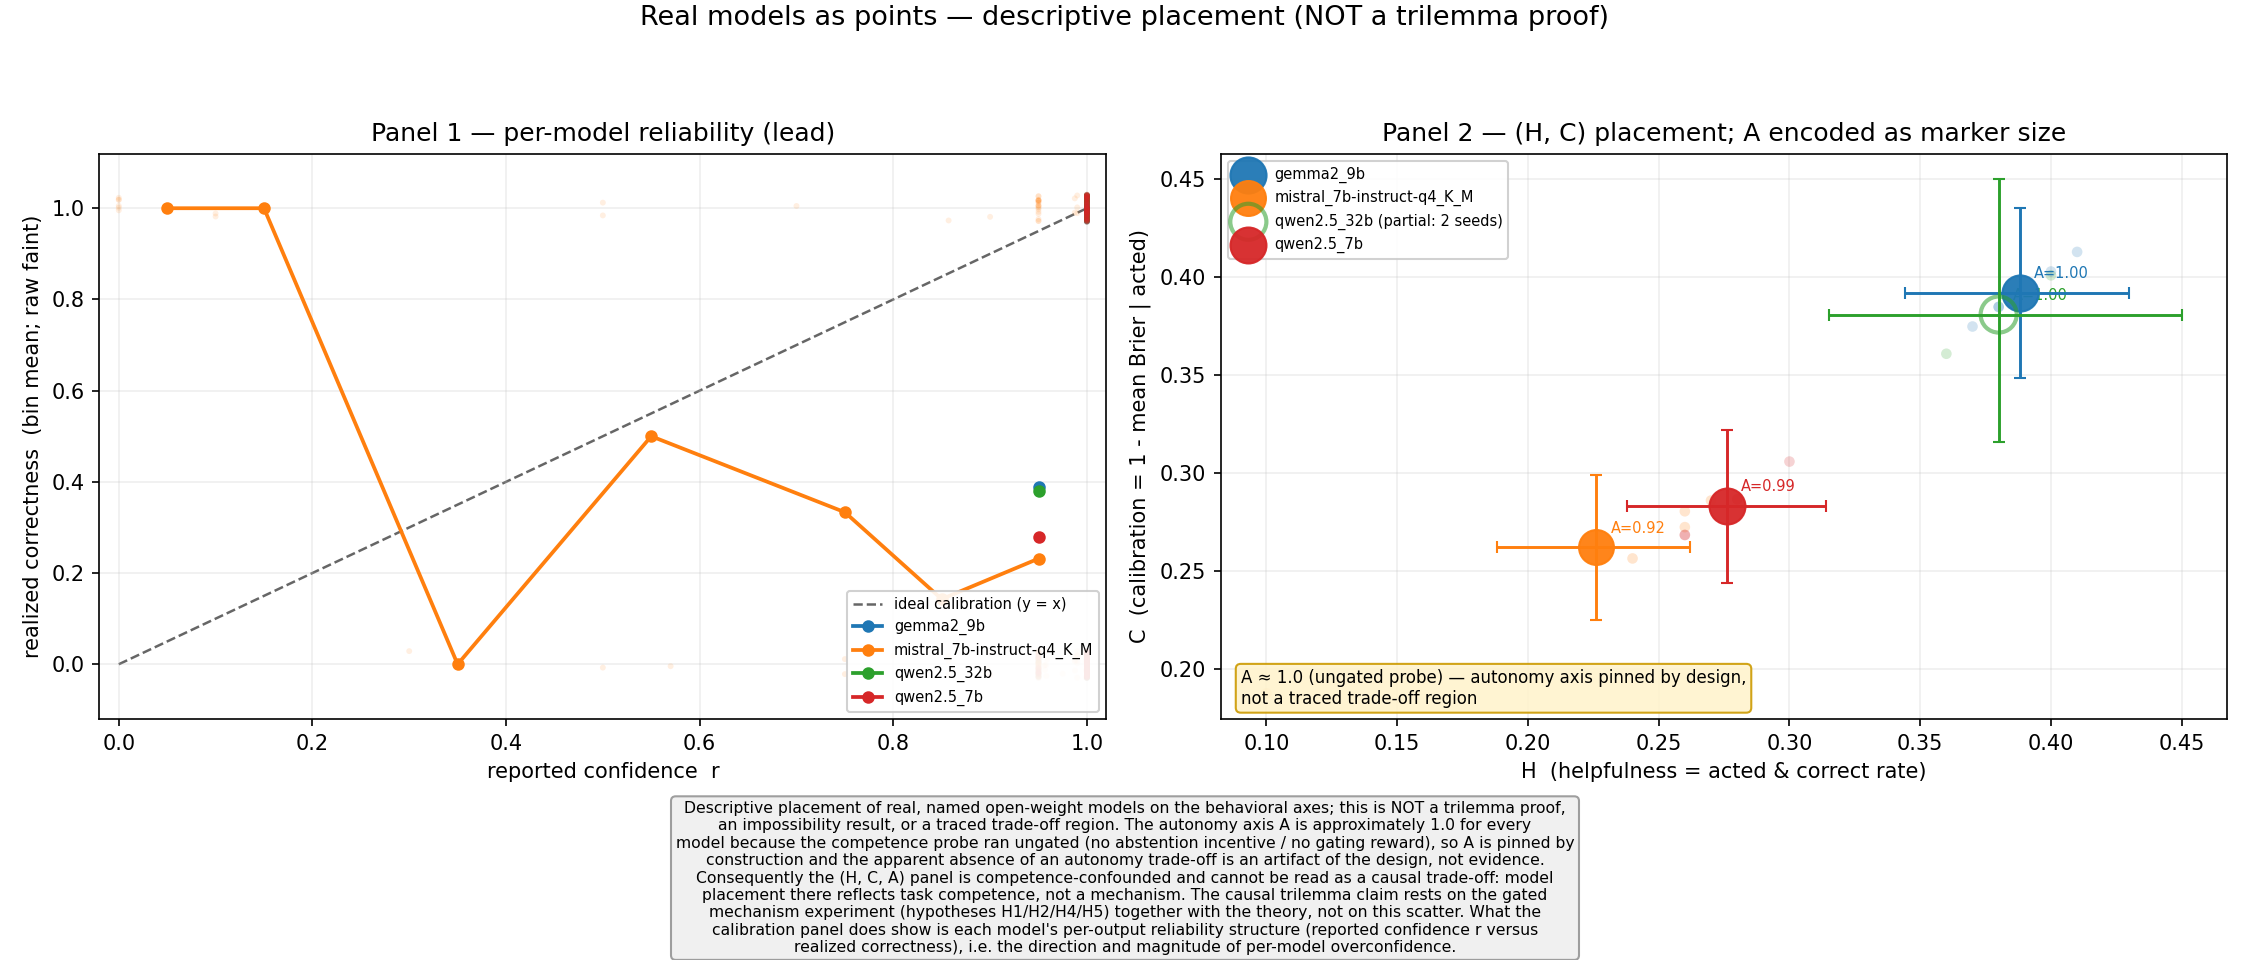
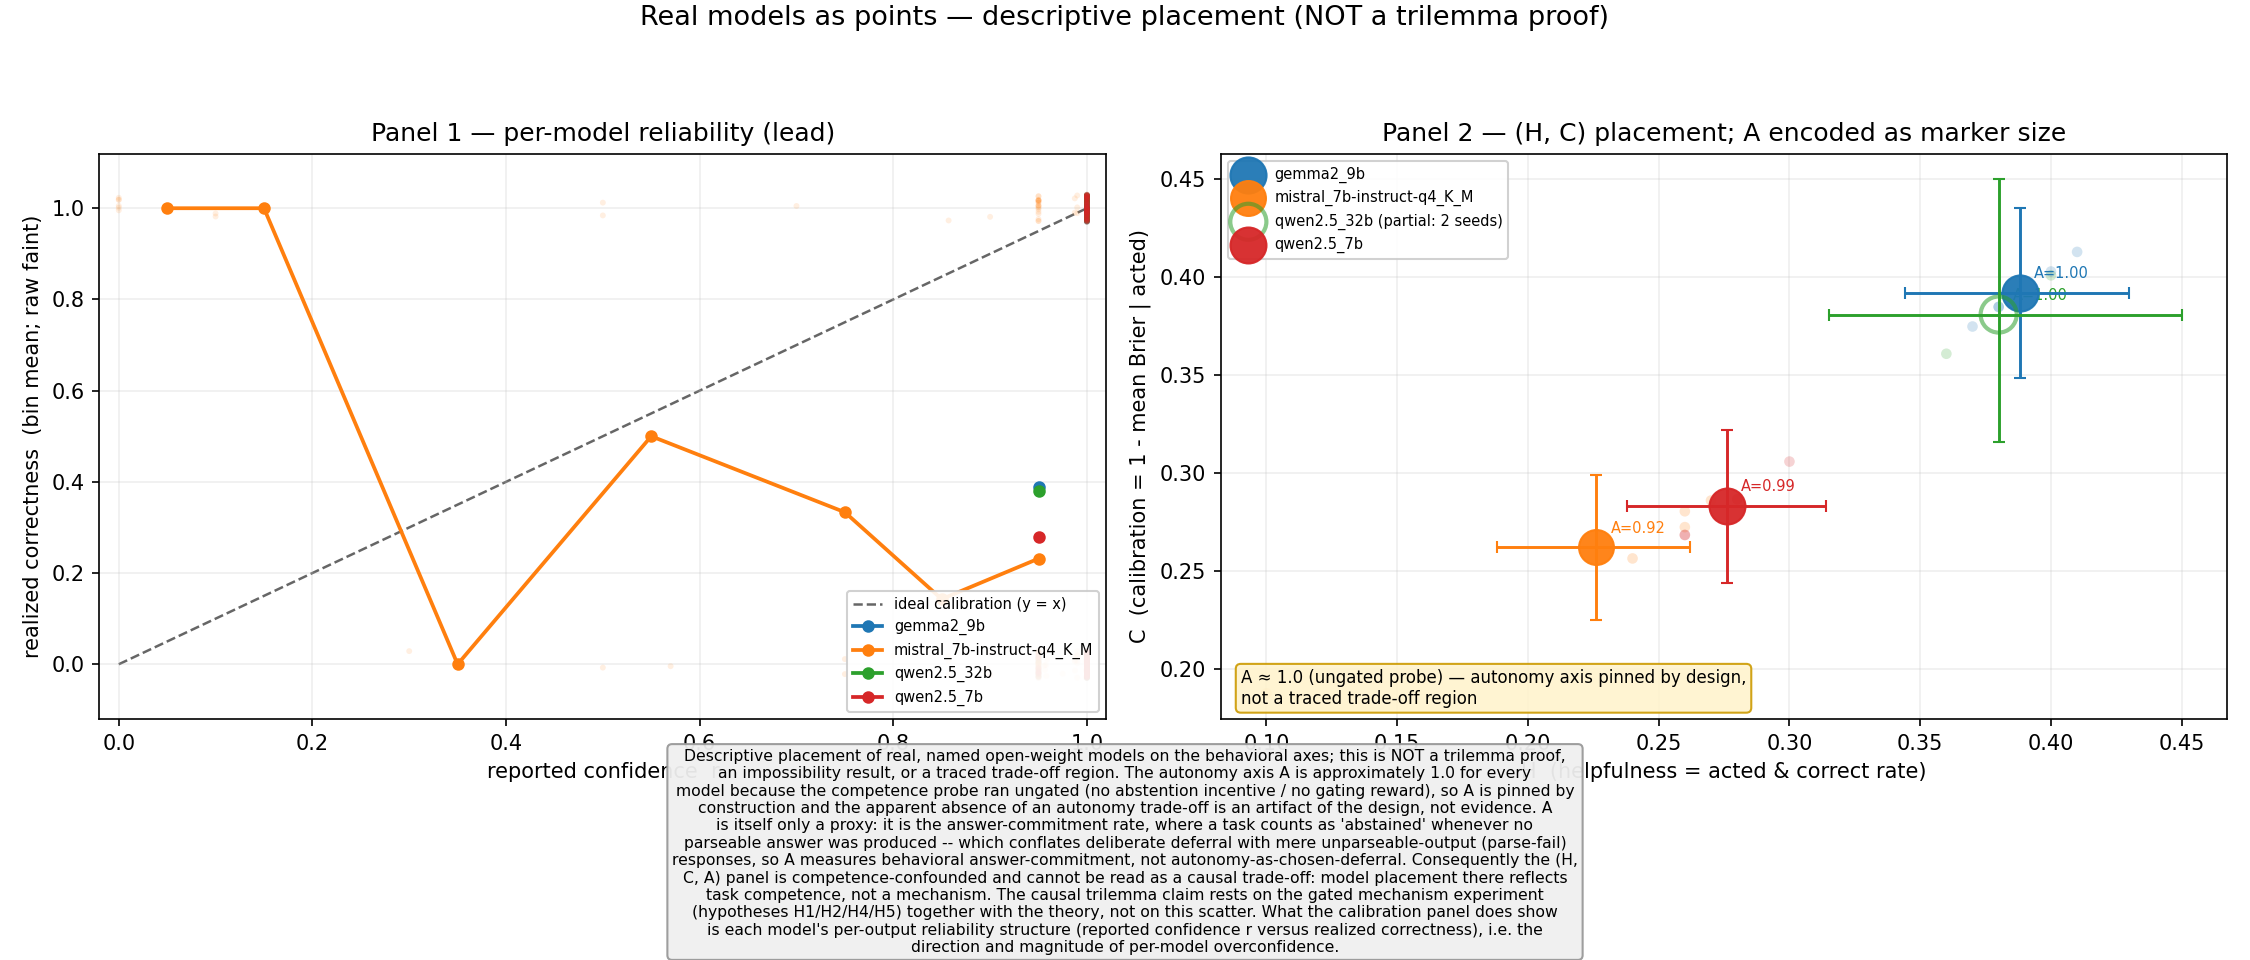
fix(analysis): disclose A construct-validity caveat in HONEST_CAPTION (A.4 review)
A.4 review IMPORTANT: A_action conflates deliberate deferral with
unparseable-output (parse-fail) responses (both -> "abstained" via
the blank-row encoding). The caption/report did not state this, so a
referee could not tell whether e.g. mistral "abstained" or just
emitted unparseable text. TDD: extended the caption-caveat test to
require the deferral/parse-fail disclosure (RED), added it to
HONEST_CAPTION (GREEN), regenerated figure + report. A is now
explicitly framed as a behavioral answer-commitment proxy, not
autonomy-as-chosen-deferral. Full suite green.

Changed region(s): [[0.28, 0.75, 0.7156, 1.0]]

diff --git a/tests/analysis/test_model_points.py b/tests/analysis/test_model_points.py
@@ -430,3 +430,13 @@ def test_honest_caption_exists_and_is_honest():
 
     # causal claim belongs to the mechanism experiment
     assert "mechanism" in low
+
+    # A construct-validity caveat: A_action conflates deliberate deferral
+    # with unparseable-output failure (both -> "abstained").
+    assert ("defer" in low) or ("deferral" in low)
+    assert (
+        ("unparseable" in low)
+        or ("parse-fail" in low)
+        or ("parse fail" in low)
+        or ("parsing failure" in low)
+    )

diff --git a/analysis/model_points.py b/analysis/model_points.py
@@ -51,7 +51,12 @@ HONEST_CAPTION = (
     "approximately 1.0 for every model because the competence probe ran "
     "ungated (no abstention incentive / no gating reward), so A is pinned "
     "by construction and the apparent absence of an autonomy trade-off is "
-    "an artifact of the design, not evidence. Consequently the (H, C, A) "
+    "an artifact of the design, not evidence. A is itself only a proxy: "
+    "it is the answer-commitment rate, where a task counts as 'abstained' "
+    "whenever no parseable answer was produced -- which conflates "
+    "deliberate deferral with mere unparseable-output (parse-fail) "
+    "responses, so A measures behavioral answer-commitment, not "
+    "autonomy-as-chosen-deferral. Consequently the (H, C, A) "
     "panel is competence-confounded and cannot be read as a causal "
     "trade-off: model placement there reflects task competence, not a "
     "mechanism. The causal trilemma claim rests on the gated mechanism "